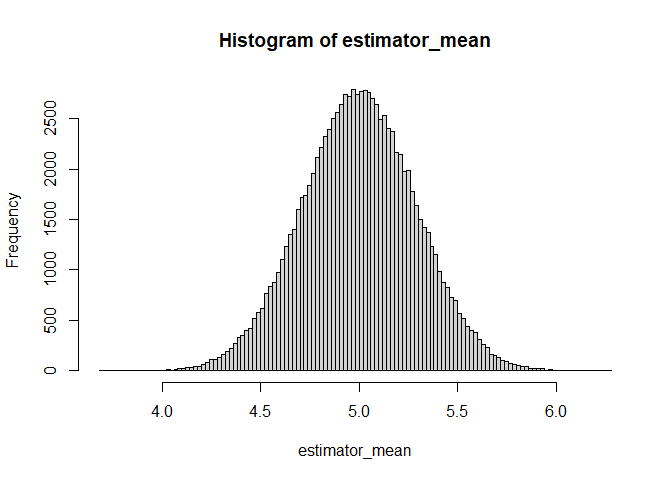
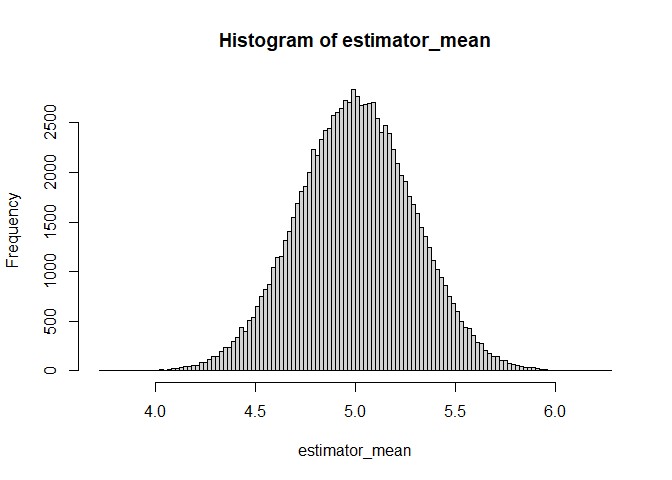
Completed first draft of solution (edits remain).

diff --git a/Module-5/Module_5.md b/Module-5/Module_5.md
@@ -415,3 +415,34 @@ Question 13
 Does the blue histogram correspond to a sample size of 100 or of 1000?
 
 ### Answer
+
+We can code this and see the result.
+
+``` r
+real_theta <- 5
+sample_size1 <- 100
+sample_size2 <- 1000
+number_simulations <- 100000
+
+simulations1 <- matrix(runif(sample_size1*number_simulations, max = real_theta), nrow = number_simulations)
+
+simulations2 <- matrix(runif(sample_size2*number_simulations, max = real_theta), nrow = number_simulations)
+
+estimator_n_100 <- 2*apply(simulations1, 1, mean)
+estimator_n_1000 <- 2*apply(simulations2, 1, mean)   
+
+# Plot
+hist(estimator_n_1000, breaks = 100, freq=FALSE, col = rgb(0,0,1,1/4), 
+     xlim = range(estimator_n_100), xlab = "Values", main = "" ) 
+hist(estimator_n_100, breaks = 100, freq=FALSE, col = rgb(1,0,0,1/4),  
+     add = TRUE ) 
+legend("topright", c("n = 100", "n = 1000"), 
+       fill = c(rgb(1,0,0,1/4), rgb(0,0,1,1/4)) )
+```
+
+![](Module_5_files/figure-gfm/unnamed-chunk-13-1.png)<!-- -->
+
+It appears the blue histogram is for $ n = 1000
+![. This can also be inferred from the variances of the two estimators. The one with the larger sample size (](https://latex.codecogs.com/png.latex?.%20This%20can%20also%20be%20inferred%20from%20the%20variances%20of%20the%20two%20estimators.%20The%20one%20with%20the%20larger%20sample%20size%20%28 ". This can also be inferred from the variances of the two estimators. The one with the larger sample size (")
+n = 1000 $) will have a lower variance (hence a tight distribution),
+since variance decreases as the sample size increases.
